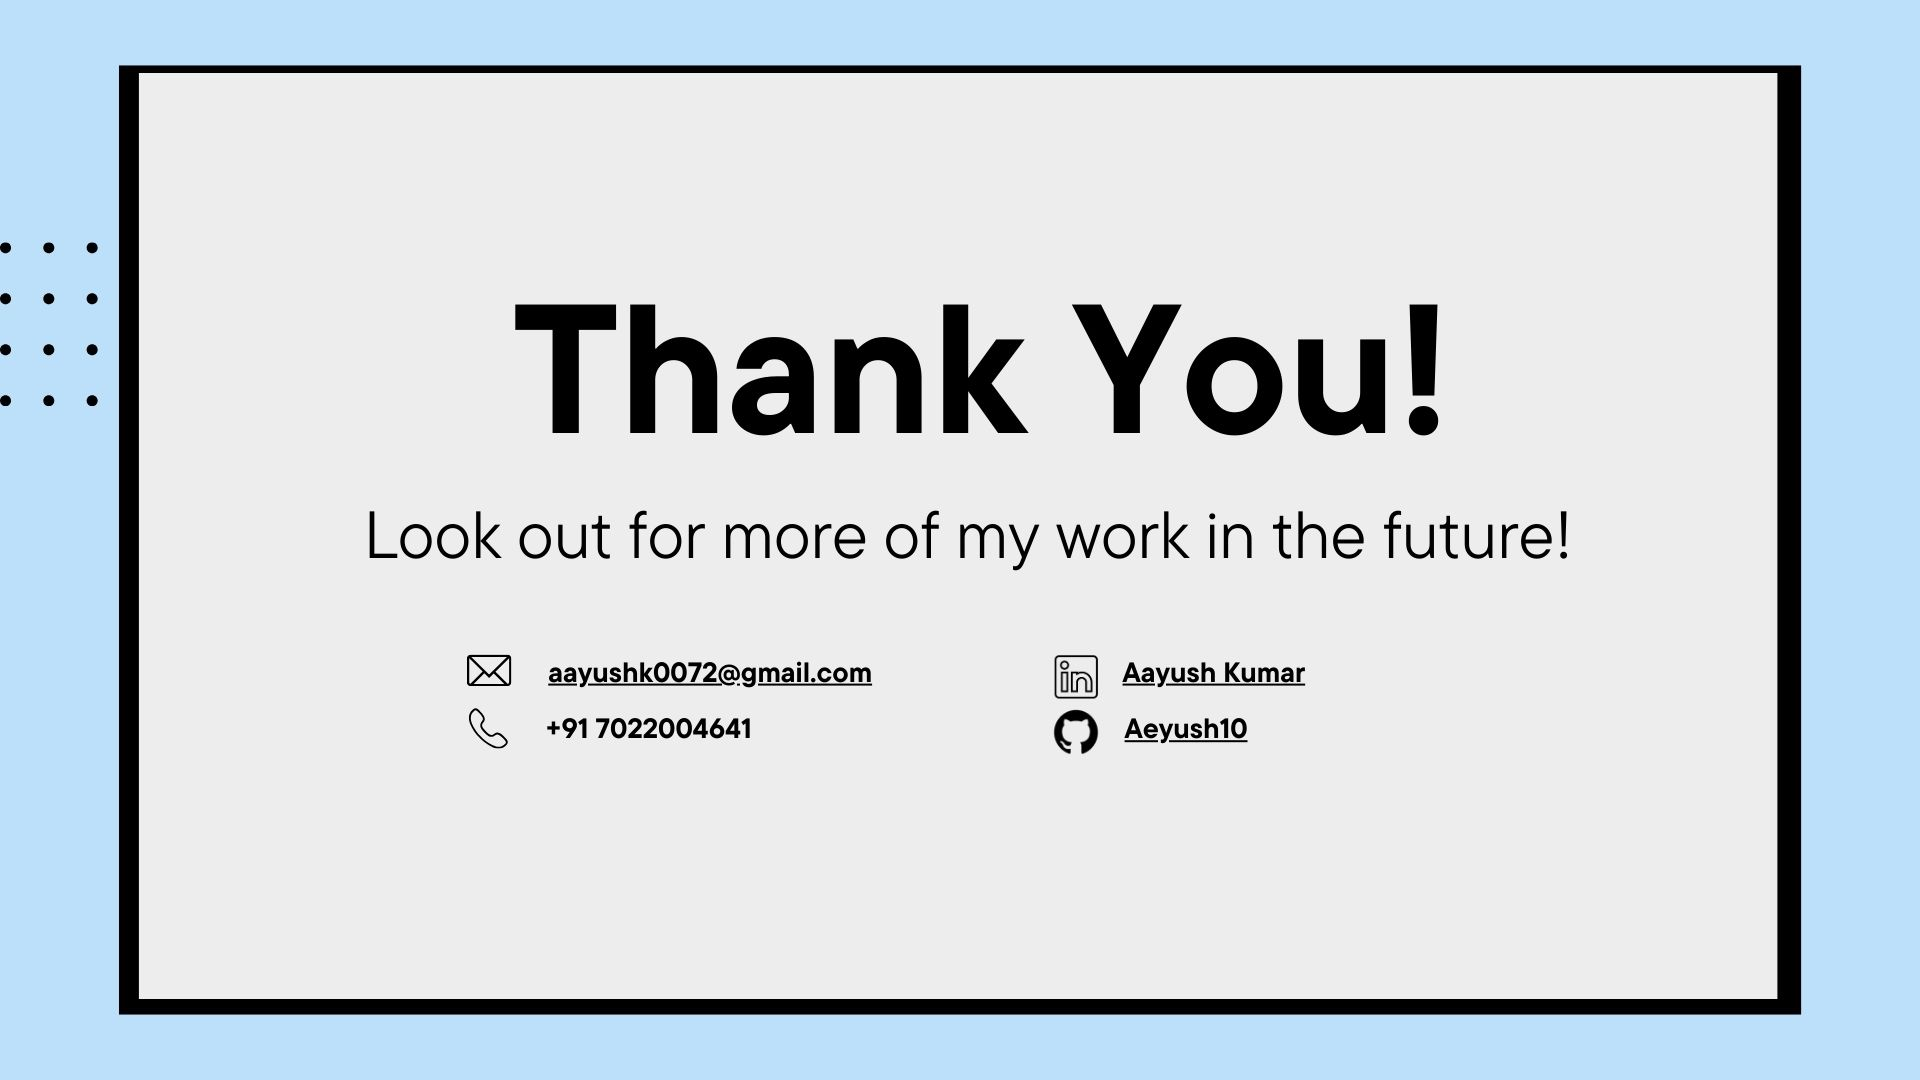
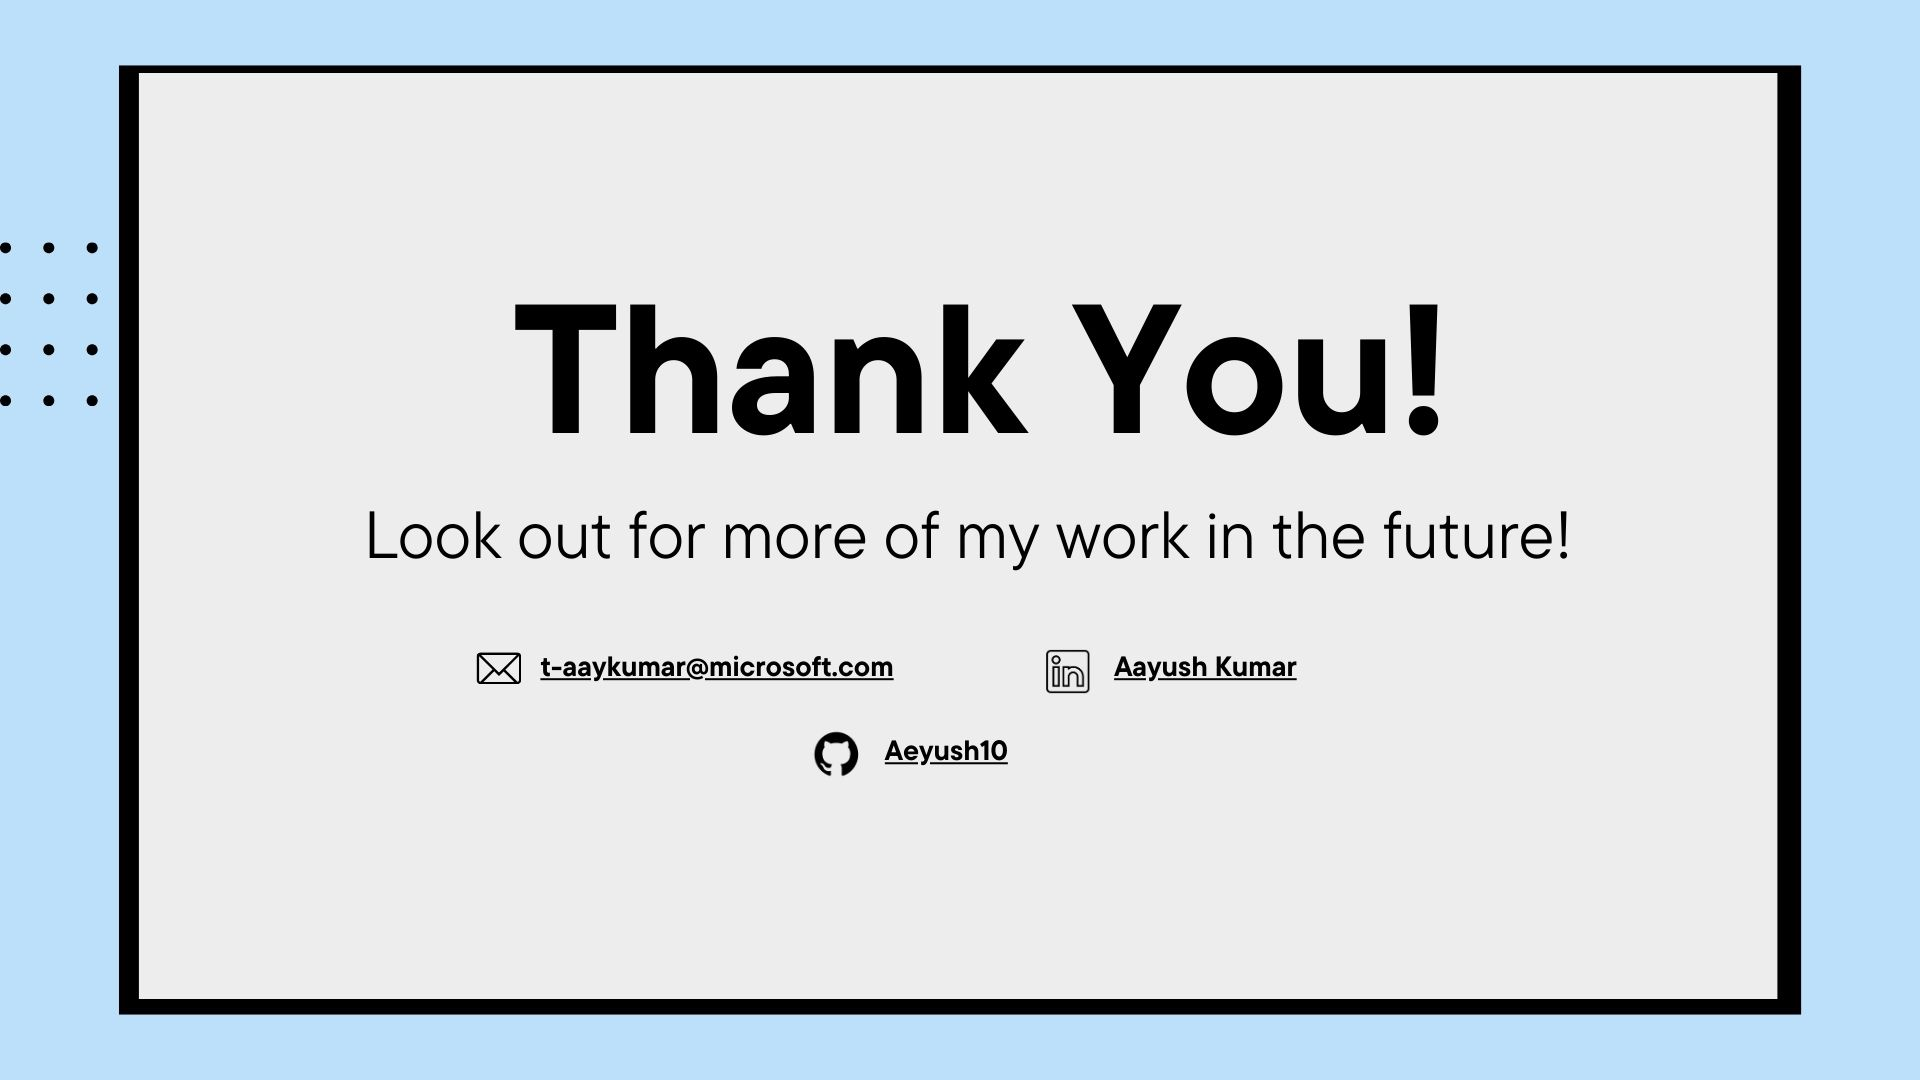
readme fixes and portfolio fixes

Changed region(s): [[0.2188, 0.5806, 0.6875, 0.7333]]

diff --git a/portfolio.html b/portfolio.html
@@ -151,9 +151,9 @@
         <img class="pdf-image" src="Portfolio_new/11.jpg" alt="Page 11" usemap="#pdfMap11">
         <map name="pdfMap11" class="image-map">
             <!-- Define areas with hyperlinks -->
-            <area shape="rect" coords="430,520,690,540" href="mailto:aayushk0072@gmail.com" id = 'link111'>
+            <area shape="rect" coords="360,520,690,540" href="mailto:t-aaykumar@microsoft.com" id = 'link111'>
             <area shape="rect" coords="885,520,1030,540" href="https://www.linkedin.com/in/aayush-kumar-05a990213/" id = 'link112'>
-            <area shape="rect" coords="885,565,980,585" href="https://github.com/Aeyush10" id = 'link113'>
+            <area shape="rect" coords="640,570,790,600" href="https://github.com/Aeyush10" id = 'link113'>
         </map>
     </div>
 
@@ -189,9 +189,9 @@
             adjustCoordinates('link101', { x1: 1270, y1: 660, x2: 1340, y2: 680 });
             adjustCoordinates('link102', { x1: 1230, y1: 695, x2: 1328, y2: 715 });
             adjustCoordinates('link103', { x1: 235, y1: 645, x2: 395, y2: 685 });
-            adjustCoordinates('link111', { x1: 430, y1: 520, x2: 690, y2: 540 });
+            adjustCoordinates('link111', { x1: 360, y1: 520, x2: 690, y2: 540 });
             adjustCoordinates('link112', { x1: 885, y1: 520, x2: 1030, y2: 540 });
-            adjustCoordinates('link113', { x1: 885, y1: 565, x2: 980, y2: 585 });
+            adjustCoordinates('link113', { x1: 640, y1: 570, x2: 790, y2: 600 });
         });
 
         window.addEventListener('resize', function() {
@@ -208,9 +208,9 @@
             adjustCoordinates('link101', { x1: 1270, y1: 660, x2: 1340, y2: 680 });
             adjustCoordinates('link102', { x1: 1230, y1: 695, x2: 1328, y2: 715 });
             adjustCoordinates('link103', { x1: 235, y1: 645, x2: 395, y2: 685 });
-            adjustCoordinates('link111', { x1: 430, y1: 520, x2: 690, y2: 540 });
+            adjustCoordinates('link111', { x1: 360, y1: 520, x2: 690, y2: 540 });
             adjustCoordinates('link112', { x1: 885, y1: 520, x2: 1030, y2: 540 });
-            adjustCoordinates('link113', { x1: 885, y1: 565, x2: 980, y2: 585 });
+            adjustCoordinates('link113', { x1: 640, y1: 570, x2: 790, y2: 600 });
         });
     </script>
 </body>

diff --git a/README.md b/README.md
@@ -1,2 +1,13 @@
-# Personal Website
- My personal website.
+# Aayush Kumar's Personal Website
+
+Hi, welcome to the repository for my personal website!
+
+## Structure
+- `index.html` - Main website with my profile, research, and projects
+- `portfolio.html` - Portfolio page with references
+- `CV/` - Contains my curriculum vitae
+- `Portfolio_new/` - Contains images for portfolio
+- `img/` - Photos for the main website
+
+## Viewing the Website
+The website is hosted using GitHub Pages and can be accessed at [aeyush10.github.io](https://aeyush10.github.io).
